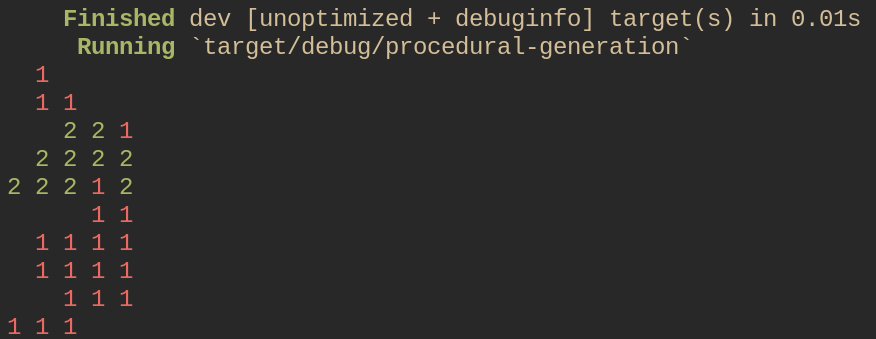
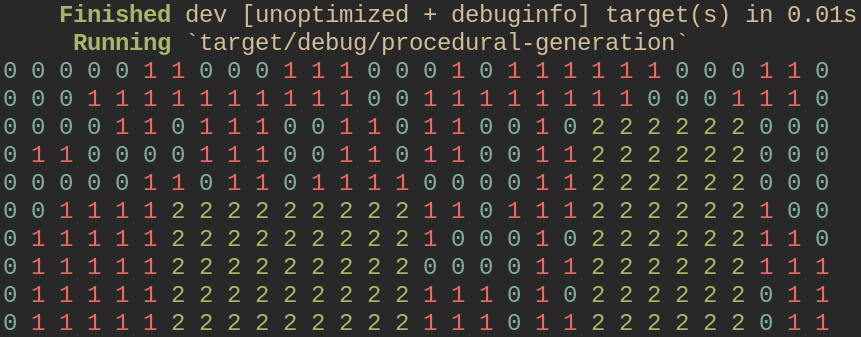
added spawning rooms

diff --git a/src/lib.rs b/src/lib.rs
@@ -6,10 +6,11 @@
 //! use procedural_generation::Generator;
 //!
 //! fn main() {
+//!     let size = Size::new((4, 4), (10, 10));
 //!     Generator::new()
-//!         .with_size(5, 10)
-//!         .spawn_terrain(1, 5)
-//!         .spawn_terrain(2, 3)
+//!         .with_size(30, 10)
+//!         .spawn_terrain(1, 50)
+//!         .spawn_rooms(2, 3, &size)
 //!         .show();
 //! }
 //! ```
@@ -17,16 +18,16 @@
 //! Produces the following (prints with colors in terminal!):
 //!
 //! ```bash
-//! 0 0 0 0 0
-//! 0 0 0 0 0
-//! 1 1 1 0 2
-//! 2 0 0 2 2
-//! 0 0 0 2 2
-//! 0 0 2 2 2
-//! 0 2 2 2 1
-//! 0 2 2 0 1
-//! 1 1 1 1 1
-//! 0 1 1 0 0
+//! 0 0 0 0 0 1 1 0 0 0 1 1 1 0 0 0 1 0 1 1 1 1 1 1 0 0 0 1 1 0
+//! 0 0 0 1 1 1 1 1 1 1 1 1 1 0 0 1 1 1 1 1 1 1 1 0 0 0 1 1 1 0
+//! 0 0 0 0 1 1 0 1 1 1 0 0 1 1 0 1 1 0 0 1 0 2 2 2 2 2 2 0 0 0
+//! 0 1 1 0 0 0 0 1 1 1 0 0 1 1 0 1 1 0 0 1 1 2 2 2 2 2 2 0 0 0
+//! 0 0 0 0 0 1 1 0 1 1 0 1 1 1 1 0 0 0 0 1 1 2 2 2 2 2 2 0 0 0
+//! 0 0 1 1 1 1 2 2 2 2 2 2 2 2 2 1 1 0 1 1 1 2 2 2 2 2 2 1 0 0
+//! 0 1 1 1 1 1 2 2 2 2 2 2 2 2 2 1 0 0 0 1 0 2 2 2 2 2 2 1 1 0
+//! 0 1 1 1 1 1 2 2 2 2 2 2 2 2 2 0 0 0 0 1 1 2 2 2 2 2 2 1 1 1
+//! 0 1 1 1 1 1 2 2 2 2 2 2 2 2 2 1 1 1 0 1 0 2 2 2 2 2 2 0 1 1
+//! 0 1 1 1 1 1 2 2 2 2 2 2 2 2 2 1 1 1 0 1 1 2 2 2 2 2 2 0 1 1
 //! ```
 
 use owo_colors::OwoColorize;
@@ -34,39 +35,18 @@ use rand::prelude::*;
 use rand::rngs::ThreadRng;
 use std::fmt;
 
+/// The foundation of this crate
 #[derive(Debug, Default)]
 pub struct Generator {
     pub map: Vec<usize>,
     pub width: usize,
     pub height: usize,
+    rooms: Vec<Room>,
 }
 
 impl Generator {
     pub fn new() -> Self {
         Self::default()
-    }
-    pub fn show(&self) {
-        println!("{}", self);
-    }
-    pub fn get_2d_map(&self) -> Vec<Vec<usize>> {
-        self.map.chunks(self.width).fold(vec![], |mut map, chunk| {
-            map.push(chunk.into());
-            map
-        })
-    }
-    pub fn with_size(&mut self, width: usize, height: usize) -> &mut Self {
-        self.map = vec![0; width * height];
-        self.width = width;
-        self.height = height;
-        self
-    }
-    pub fn spawn_terrain(&mut self, number: usize, repeats: usize) -> &mut Self {
-        let mut rng = rand::thread_rng();
-        for _ in 0..repeats {
-            let start = self.spawn_base(number, &mut rng);
-            self.populate(start, 0.5, &mut rng);
-        }
-        self
     }
     fn spawn_base(&mut self, number: usize, rng: &mut ThreadRng) -> usize {
         let start = rng.gen_range(0, self.map.len());
@@ -96,6 +76,74 @@ impl Generator {
             }
         }
     }
+    fn spawn_room(&mut self, number: usize, size: &Size, rng: &mut ThreadRng) -> &mut Self {
+        let mut x = rng.gen_range(0, self.width);
+        let mut y = rng.gen_range(0, self.height);
+
+        let width = rng.gen_range(size.min_size.0, size.max_size.0);
+        let height = rng.gen_range(size.min_size.1, size.max_size.1);
+
+        // shift room back on if it's off
+        if x + width > self.width {
+            x = self.width - width;
+        }
+
+        // shift room back on if it's off
+        if y + height > self.height {
+            y = self.height - height;
+        }
+
+        let mut collides = false;
+        let room = Room::new(x, y, width, height);
+        
+        for other_room in &self.rooms {
+            if room.intersects(&other_room) {
+                collides = true;
+                break;
+            }
+        }
+
+        if !collides {
+            for row in 0..height {
+                for col in 0..width {
+                    let pos = (room.x + col, room.y + row);
+                    self.map[pos.0 + pos.1 * self.width] = number;
+                }
+            }
+            self.rooms.push(room);
+        }
+        self
+    }
+    pub fn show(&self) {
+        println!("{}", self);
+    }
+    pub fn get_2d_map(&self) -> Vec<Vec<usize>> {
+        self.map.chunks(self.width).fold(vec![], |mut map, chunk| {
+            map.push(chunk.into());
+            map
+        })
+    }
+    pub fn with_size(&mut self, width: usize, height: usize) -> &mut Self {
+        self.map = vec![0; width * height];
+        self.width = width;
+        self.height = height;
+        self
+    }
+    pub fn spawn_terrain(&mut self, number: usize, repeats: usize) -> &mut Self {
+        let mut rng = rand::thread_rng();
+        for _ in 0..repeats {
+            let start = self.spawn_base(number, &mut rng);
+            self.populate(start, 0.5, &mut rng);
+        }
+        self
+    }
+    pub fn spawn_rooms(&mut self, number: usize, rooms: usize, size: &Size) -> &mut Self {
+        let mut rng = rand::thread_rng();
+        for _ in 0..rooms {
+            self.spawn_room(number, size, &mut rng);
+        }
+        self
+    }
 }
 
 impl fmt::Display for Generator {
@@ -103,16 +151,15 @@ impl fmt::Display for Generator {
         for y in 0..self.height {
             for x in 0..self.width {
                 let value = self.map[x + y * self.width];
-                let remainder = value % 8;
+                let remainder = value % 7;
                 match remainder {
                     1 => write!(f, "{:?} ", value.red())?,
                     2 => write!(f, "{:?} ", value.green())?,
-                    3 => write!(f, "{:?} ", value.blue())?,
-                    4 => write!(f, "{:?} ", value.cyan())?,
-                    5 => write!(f, "{:?} ", value.magenta())?,
-                    6 => write!(f, "{:?} ", value.white())?,
-                    7 => write!(f, "{:?} ", value.yellow())?,
-                    _ => write!(f, "{:?} ", value.black())?,
+                    3 => write!(f, "{:?} ", value.cyan())?,
+                    4 => write!(f, "{:?} ", value.magenta())?,
+                    5 => write!(f, "{:?} ", value.white())?,
+                    6 => write!(f, "{:?} ", value.yellow())?,
+                    _ => write!(f, "{:?} ", value.blue())?,
                 }
             }
             if y < self.height - 1 {
@@ -120,5 +167,48 @@ impl fmt::Display for Generator {
             }
         }
         Ok(())
+    }
+}
+
+/// Size constraints for spawning rooms
+pub struct Size {
+    /// First option is width, second option is height
+    pub min_size: (usize, usize),
+    /// First option is width, second option is height
+    pub max_size: (usize, usize),
+}
+
+impl Size {
+    pub fn new(min_size: (usize, usize), max_size: (usize, usize)) -> Self {
+        Self {
+            min_size,
+            max_size,
+        }
+    }
+}
+
+#[derive(Debug)]
+struct Room {
+    x: usize,
+    y: usize,
+    x2: usize,
+    y2: usize,
+    width: usize,
+    height: usize,
+}
+
+impl Room {
+    fn new(x: usize, y: usize, width: usize, height: usize) -> Self {
+        Room {
+            x,
+            y,
+            x2: x + width,
+            y2: y + height,
+            width,
+            height,
+        }
+    }
+    fn intersects(&self, other: &Self) -> bool {
+        self.x <= other.x2 && self.x2 >= other.x && self.y <= other.y2 && self.y2 >= other.y
     }
 }
